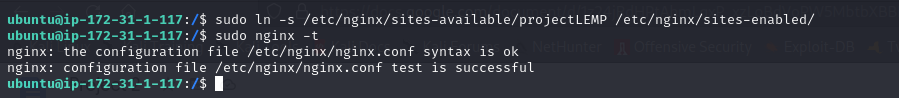
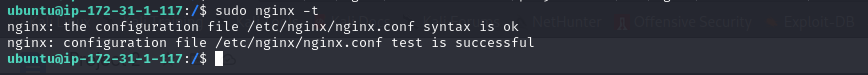
modified README.md

diff --git a/README.md b/README.md
@@ -95,12 +95,15 @@ When using the Nginx web server, we can create server blocks (similar to virtual
 
 * Next, Give recursive ownership of the directory with the $USER environment variable, which will reference your current system user:
 
+![EC2](./images/php11.jpeg)
+
+
 * Now, open a new configuration file in Nginx’s sites-available directory using your preferred command-line editor. Here I use vim editor, you can use your preffered text editor, vim automatically creates a file and requires sudo privileges to save configs
 
 `sudo vim /etc/nginx/sites-available/projectLEMP`
 
  Paste in the following bare-bones configuration:
- 
+
             #/etc/nginx/sites-available/projectLEMP
         
         server {
@@ -124,9 +127,29 @@ When using the Nginx web server, we can create server blocks (similar to virtual
             }
         
         }
-`
- 
-  
+
+
+press esc key, :wq! to save and exit.
+
+* Next, Activate your configuration by linking to the config file from Nginx’s sites-enabled directory:
+
+    `sudo ln -s /etc/nginx/sites-available/projectLEMP /etc/nginx/sites-enabled/`
+
+  ![EC2](./images/php12.jpeg)
+
+  You can test your configuration for syntax errors by typing:
+
+    `sudo nginx -t`
+
+    ![EC2](./images/php13.jpeg)
+
+
+    
+
+
+
+
+
 
 
 
